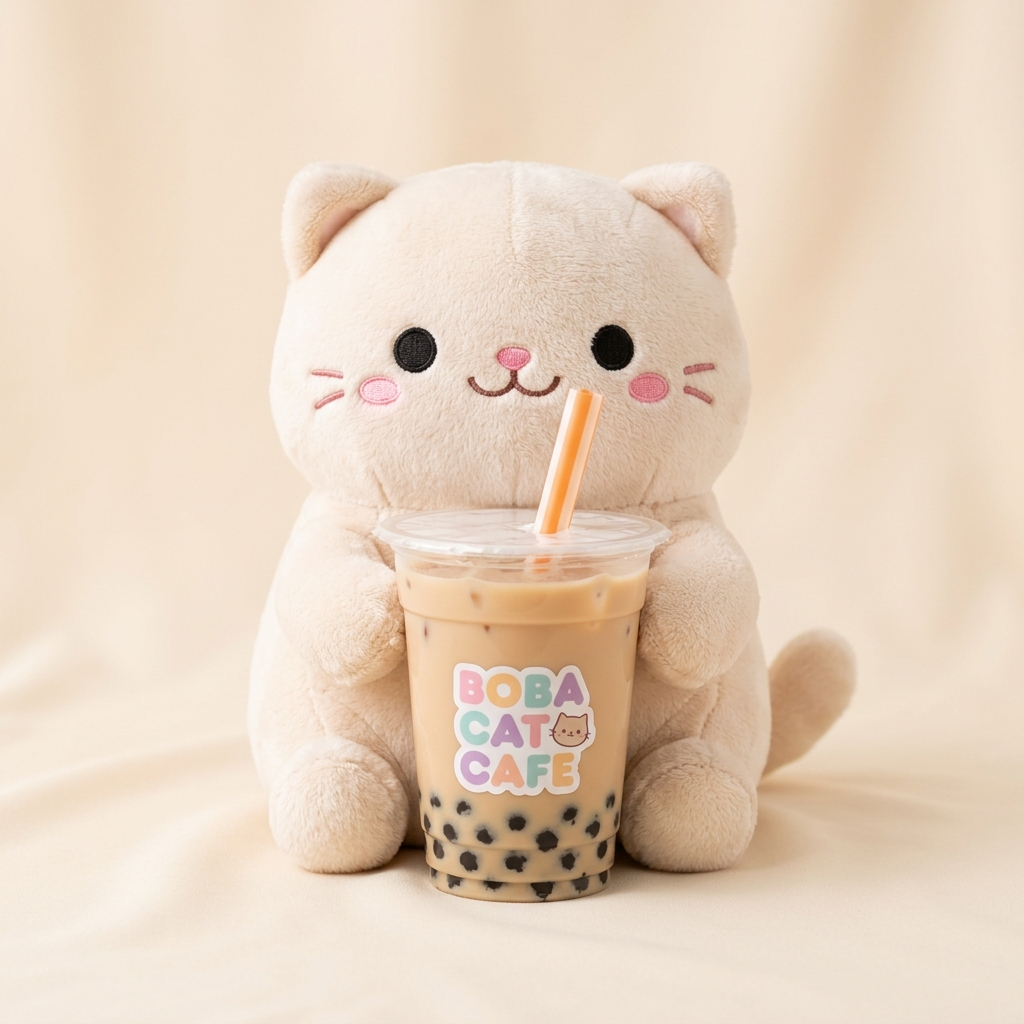
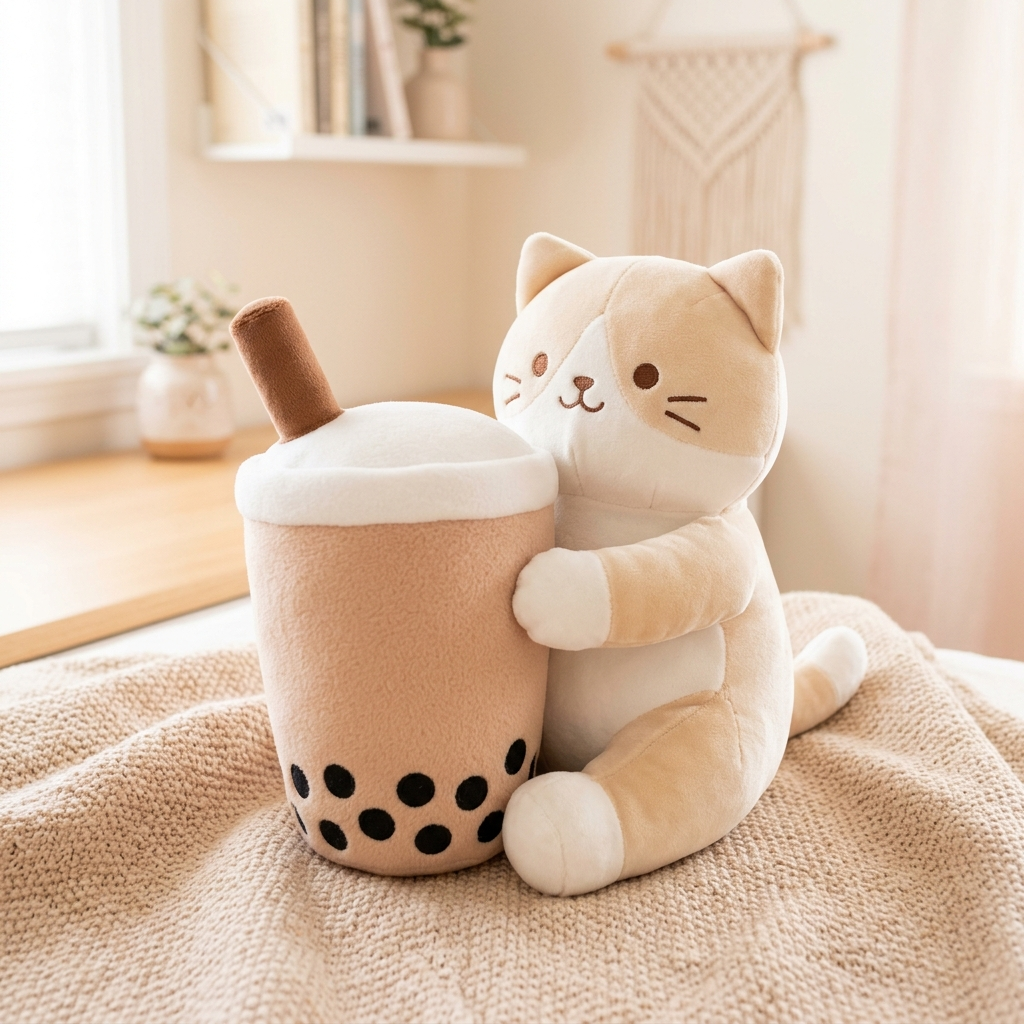
fix(customer-ui & catalog): remove role badge and new order button, auto-select product into cart, update boba cat plushie image, and sync order history

diff --git a/resources/views/dashboard.blade.php b/resources/views/dashboard.blade.php
@@ -10,15 +10,15 @@
         </div>
         <div class="relative z-10 flex flex-col md:flex-row md:items-center justify-between gap-4">
             <div>
-                <div class="inline-flex items-center px-3 py-1 rounded-full text-xs font-extrabold bg-white/20 backdrop-blur border border-white/30 text-white mb-2">
-                    @if($user->isAdmin())
-                        <i class="fa-solid fa-shield-halved mr-1.5"></i> ROLE: ADMINISTRATOR / OWNER
-                    @elseif($user->isStaff())
-                        <i class="fa-solid fa-user-gear mr-1.5"></i> ROLE: STAFF KASIR & INVENTORI
-                    @else
-                        <i class="fa-solid fa-heart mr-1.5"></i> ROLE: PELANGGAN (CUSTOMER)
-                    @endif
-                </div>
+                @if($user->isAdmin() || $user->isStaff())
+                    <div class="inline-flex items-center px-3 py-1 rounded-full text-xs font-extrabold bg-white/20 backdrop-blur border border-white/30 text-white mb-2">
+                        @if($user->isAdmin())
+                            <i class="fa-solid fa-shield-halved mr-1.5"></i> ROLE: ADMINISTRATOR / OWNER
+                        @else
+                            <i class="fa-solid fa-user-gear mr-1.5"></i> ROLE: STAFF KASIR & INVENTORI
+                        @endif
+                    </div>
+                @endif
                 <h1 class="text-2xl sm:text-3xl font-extrabold tracking-tight">
                     Halo, {{ $user->name }}! 👋
                 </h1>
@@ -511,7 +511,7 @@
                                 <span class="text-[11px] font-bold text-emerald-600 bg-emerald-50 px-2 py-1 rounded-full border border-emerald-200">
                                     Stok: {{ $item->stock }}
                                 </span>
-                                <a href="{{ route('sales.create') }}" class="px-3 py-1.5 rounded-xl bg-pink-500 hover:bg-pink-600 text-white text-xs font-bold shadow-sm transition-all flex items-center" title="Pesan boneka ini">
+                                <a href="{{ route('sales.create', ['product_id' => $item->id]) }}" class="px-3 py-1.5 rounded-xl bg-pink-500 hover:bg-pink-600 text-white text-xs font-bold shadow-sm transition-all flex items-center" title="Pesan boneka ini">
                                     <i class="fa-solid fa-cart-shopping mr-1"></i> Pesan
                                 </a>
                             </div>

diff --git a/resources/views/sales/create.blade.php b/resources/views/sales/create.blade.php
@@ -229,7 +229,7 @@
 
         let optionsHtml = '<option value="">-- Pilih Koleksi Boneka --</option>';
         availableProducts.forEach(p => {
-            const isSelected = p.id == selectedProductId ? 'selected' : '';
+            const isSelected = String(p.id) === String(selectedProductId) ? 'selected' : '';
             const imgPath = p.image_asset_url || (p.image_url ? ("{{ asset('') }}" + p.image_url.replace(/^\//, '')) : defaultPlushieImg);
             optionsHtml += `<option value="${p.id}" data-price="${p.selling_price}" data-stock="${p.stock}" data-image="${imgPath}" data-img="${imgPath}" ${isSelected}>
                 ${p.name} (${p.size || 'Standard'}) - Sisa: ${p.stock} pcs
@@ -292,6 +292,7 @@
                 thumb.src = defaultPlushieImg;
             }
             validateAndCalculateRow(tr);
+            calculateGrandTotal();
         }
 
         select.addEventListener('change', updateRowFromSelection);
@@ -308,11 +309,15 @@
         });
 
         if (selectedProductId) {
-            select.value = selectedProductId;
-            updateRowFromSelection();
-        } else {
-            updateRowFromSelection();
+            select.value = String(selectedProductId);
+            for (let i = 0; i < select.options.length; i++) {
+                if (String(select.options[i].value) === String(selectedProductId)) {
+                    select.selectedIndex = i;
+                    break;
+                }
+            }
         }
+        updateRowFromSelection();
 
         rowIndex++;
     }
@@ -351,8 +356,8 @@
 
     document.getElementById('addRowBtn').addEventListener('click', () => addRow());
 
-    // Restore old inputs if validation error occurred
-    document.addEventListener('DOMContentLoaded', () => {
+    // Restore old inputs or initialize with preselected product from query
+    function initFormRows() {
         const oldItems = @json(old('items', []));
         const selectedProductIdFromQuery = @json($selectedProductId ?? request()->query('product_id'));
         if (oldItems && oldItems.length > 0) {
@@ -365,6 +370,12 @@
             // Initialize with 1 empty row
             addRow();
         }
-    });
+    }
+
+    if (document.readyState === 'loading') {
+        document.addEventListener('DOMContentLoaded', initFormRows);
+    } else {
+        initFormRows();
+    }
 </script>
 @endsection

diff --git a/app/Http/Controllers/DashboardController.php b/app/Http/Controllers/DashboardController.php
@@ -93,19 +93,37 @@ class DashboardController extends Controller
         }
 
         // 2. Customer Dashboard View
-        $myOrdersCount = Sale::where('customer_id', $user->id)
-            ->where('customer_name', $user->name)
+        $myOrdersCount = Sale::where(function ($userQuery) use ($user) {
+                $userQuery->where('customer_id', $user->id)
+                          ->orWhere('user_id', $user->id);
+            })
+            ->where(function ($nameQuery) use ($user) {
+                $nameQuery->where('customer_name', $user->name)
+                          ->orWhere('customer_name', 'like', $user->name . ' (%');
+            })
             ->where('status', 'completed')
             ->count();
 
-        $myTotalSpent = (float) Sale::where('customer_id', $user->id)
-            ->where('customer_name', $user->name)
+        $myTotalSpent = (float) Sale::where(function ($userQuery) use ($user) {
+                $userQuery->where('customer_id', $user->id)
+                          ->orWhere('user_id', $user->id);
+            })
+            ->where(function ($nameQuery) use ($user) {
+                $nameQuery->where('customer_name', $user->name)
+                          ->orWhere('customer_name', 'like', $user->name . ' (%');
+            })
             ->where('status', 'completed')
             ->sum('total');
 
         $myRecentOrders = Sale::with(['items.product'])
-            ->where('customer_id', $user->id)
-            ->where('customer_name', $user->name)
+            ->where(function ($userQuery) use ($user) {
+                $userQuery->where('customer_id', $user->id)
+                          ->orWhere('user_id', $user->id);
+            })
+            ->where(function ($nameQuery) use ($user) {
+                $nameQuery->where('customer_name', $user->name)
+                          ->orWhere('customer_name', 'like', $user->name . ' (%');
+            })
             ->latest('sold_at')
             ->take(5)
             ->get();

diff --git a/app/Http/Controllers/SaleController.php b/app/Http/Controllers/SaleController.php
@@ -32,9 +32,15 @@ class SaleController extends Controller
 
         $sales = Sale::with(['user', 'customer', 'items.product'])
             ->when($user->isCustomer(), function ($query) use ($user) {
-                // Strictly filter to own customer sales matching logged-in customer name
-                $query->where('customer_id', $user->id)
-                      ->where('customer_name', $user->name);
+                // Strictly filter to own customer sales matching logged-in customer identity
+                $query->where(function ($userQuery) use ($user) {
+                    $userQuery->where('customer_id', $user->id)
+                              ->orWhere('user_id', $user->id);
+                })
+                ->where(function ($nameQuery) use ($user) {
+                    $nameQuery->where('customer_name', $user->name)
+                              ->orWhere('customer_name', 'like', $user->name . ' (%');
+                });
             })
             ->when($search, function ($query, $search) use ($user) {
                 if ($user->isCustomer()) {
@@ -69,7 +75,7 @@ class SaleController extends Controller
     /**
      * Show the form for creating a new sales transaction / customer order.
      */
-    public function create(): View
+    public function create(Request $request): View
     {
         /** @var User $user */
         $user = Auth::user();
@@ -88,7 +94,7 @@ class SaleController extends Controller
                 ->get(['id', 'name', 'email', 'phone']);
         }
 
-        $selectedProductId = request()->query('product_id');
+        $selectedProductId = $request->query('product_id');
 
         return view('sales.create', compact('products', 'customers', 'user', 'selectedProductId'));
     }

diff --git a/tests/Feature/SaleTest.php b/tests/Feature/SaleTest.php
@@ -220,4 +220,36 @@ class SaleTest extends TestCase
             'payment_status' => 'paid',
         ]);
     }
+
+    public function test_customer_sales_index_does_not_show_new_order_button_and_syncs_with_dashboard(): void
+    {
+        $sale = Sale::create([
+            'user_id' => $this->customer1->id,
+            'customer_id' => $this->customer1->id,
+            'customer_name' => $this->customer1->name,
+            'sale_number' => 'INV-20261026-0009',
+            'total' => 90000,
+            'status' => 'completed',
+            'sold_at' => now(),
+        ]);
+
+        $response = $this->actingAs($this->customer1)->get('/sales');
+        $response->assertStatus(200);
+        $response->assertSee('Riwayat Pesanan Saya');
+        $response->assertDontSee('Pesan Boneka Baru');
+        $response->assertSee('INV-20261026-0009');
+
+        // Verify dashboard also shows this sale
+        $dashResponse = $this->actingAs($this->customer1)->get('/dashboard');
+        $dashResponse->assertStatus(200);
+        $dashResponse->assertSee('INV-20261026-0009');
+    }
+
+    public function test_sales_create_with_product_id_preselects_product_in_cart(): void
+    {
+        $response = $this->actingAs($this->customer1)->get('/sales/create?product_id=' . $this->product1->id);
+        $response->assertStatus(200);
+        $response->assertSee('Keranjang Boneka yang Dibeli');
+        $response->assertSee($this->product1->name);
+    }
 }

diff --git a/resources/views/sales/index.blade.php b/resources/views/sales/index.blade.php
@@ -19,12 +19,13 @@
             </p>
         </div>
 
-        <div>
-            <a href="{{ route('sales.create') }}" class="inline-flex items-center px-4 py-2.5 rounded-xl bg-pink-500 hover:bg-pink-600 text-white font-bold text-sm shadow-sm transition-all duration-200">
-                <i class="fa-solid fa-plus mr-1.5"></i>
-                {{ $user->isCustomer() ? 'Pesan Boneka Baru' : 'Buat Penjualan Baru' }}
-            </a>
-        </div>
+        @if(!$user->isCustomer())
+            <div>
+                <a href="{{ route('sales.create') }}" class="inline-flex items-center px-4 py-2.5 rounded-xl bg-pink-500 hover:bg-pink-600 text-white font-bold text-sm shadow-sm transition-all duration-200">
+                    <i class="fa-solid fa-plus mr-1.5"></i> Buat Penjualan Baru
+                </a>
+            </div>
+        @endif
     </div>
 
     <!-- Multi-Filter & Search Bar -->

diff --git a/resources/views/products/catalog.blade.php b/resources/views/products/catalog.blade.php
@@ -113,7 +113,7 @@
 
                 <!-- Quick Action Button -->
                 <div class="mt-3">
-                    <a href="{{ route('sales.create') }}" class="w-full inline-flex items-center justify-center py-2 px-3 rounded-2xl bg-pink-50 hover:bg-pink-100 text-pink-700 font-bold text-xs border border-pink-200 transition-colors">
+                    <a href="{{ route('sales.create', ['product_id' => $item->id]) }}" class="w-full inline-flex items-center justify-center py-2 px-3 rounded-2xl bg-pink-50 hover:bg-pink-100 text-pink-700 font-bold text-xs border border-pink-200 transition-colors">
                         <i class="fa-solid fa-basket-shopping mr-1.5 text-pink-500"></i> Pesan Boneka Ini
                     </a>
                 </div>

diff --git a/tests/Feature/DashboardTest.php b/tests/Feature/DashboardTest.php
@@ -171,7 +171,8 @@ class DashboardTest extends TestCase
         $response = $this->actingAs($this->customer)->get('/dashboard');
 
         $response->assertStatus(200);
-        $response->assertSee('ROLE: PELANGGAN (CUSTOMER)');
+        $response->assertDontSee('ROLE: PELANGGAN (CUSTOMER)');
+        $response->assertSee('Halo, ' . $this->customer->name);
 
         // Customer stats
         $response->assertSee('Pesanan Selesai');
